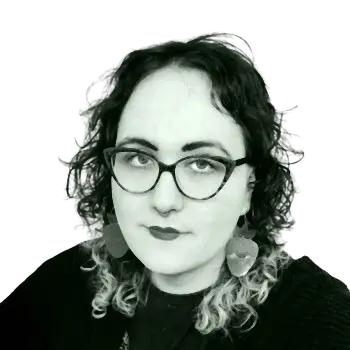
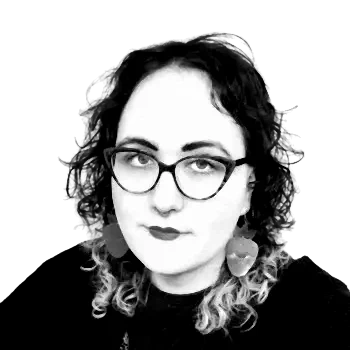
more stuff

diff --git a/src/_css/infobox.css b/src/_css/infobox.css
@@ -10,9 +10,9 @@ ul.infobox {
   /* max-width: max-content; */
   position: relative;
 
-  background: var(--theme-box);
-  border-radius: var(--rounded-large);
-  box-shadow: var(--shadow-inset1);
+  background: var(--theme-infobox);
+  border-radius: 0;
+  /* box-shadow: var(--shadow-inset1); */
 
   a {
     color: inherit;